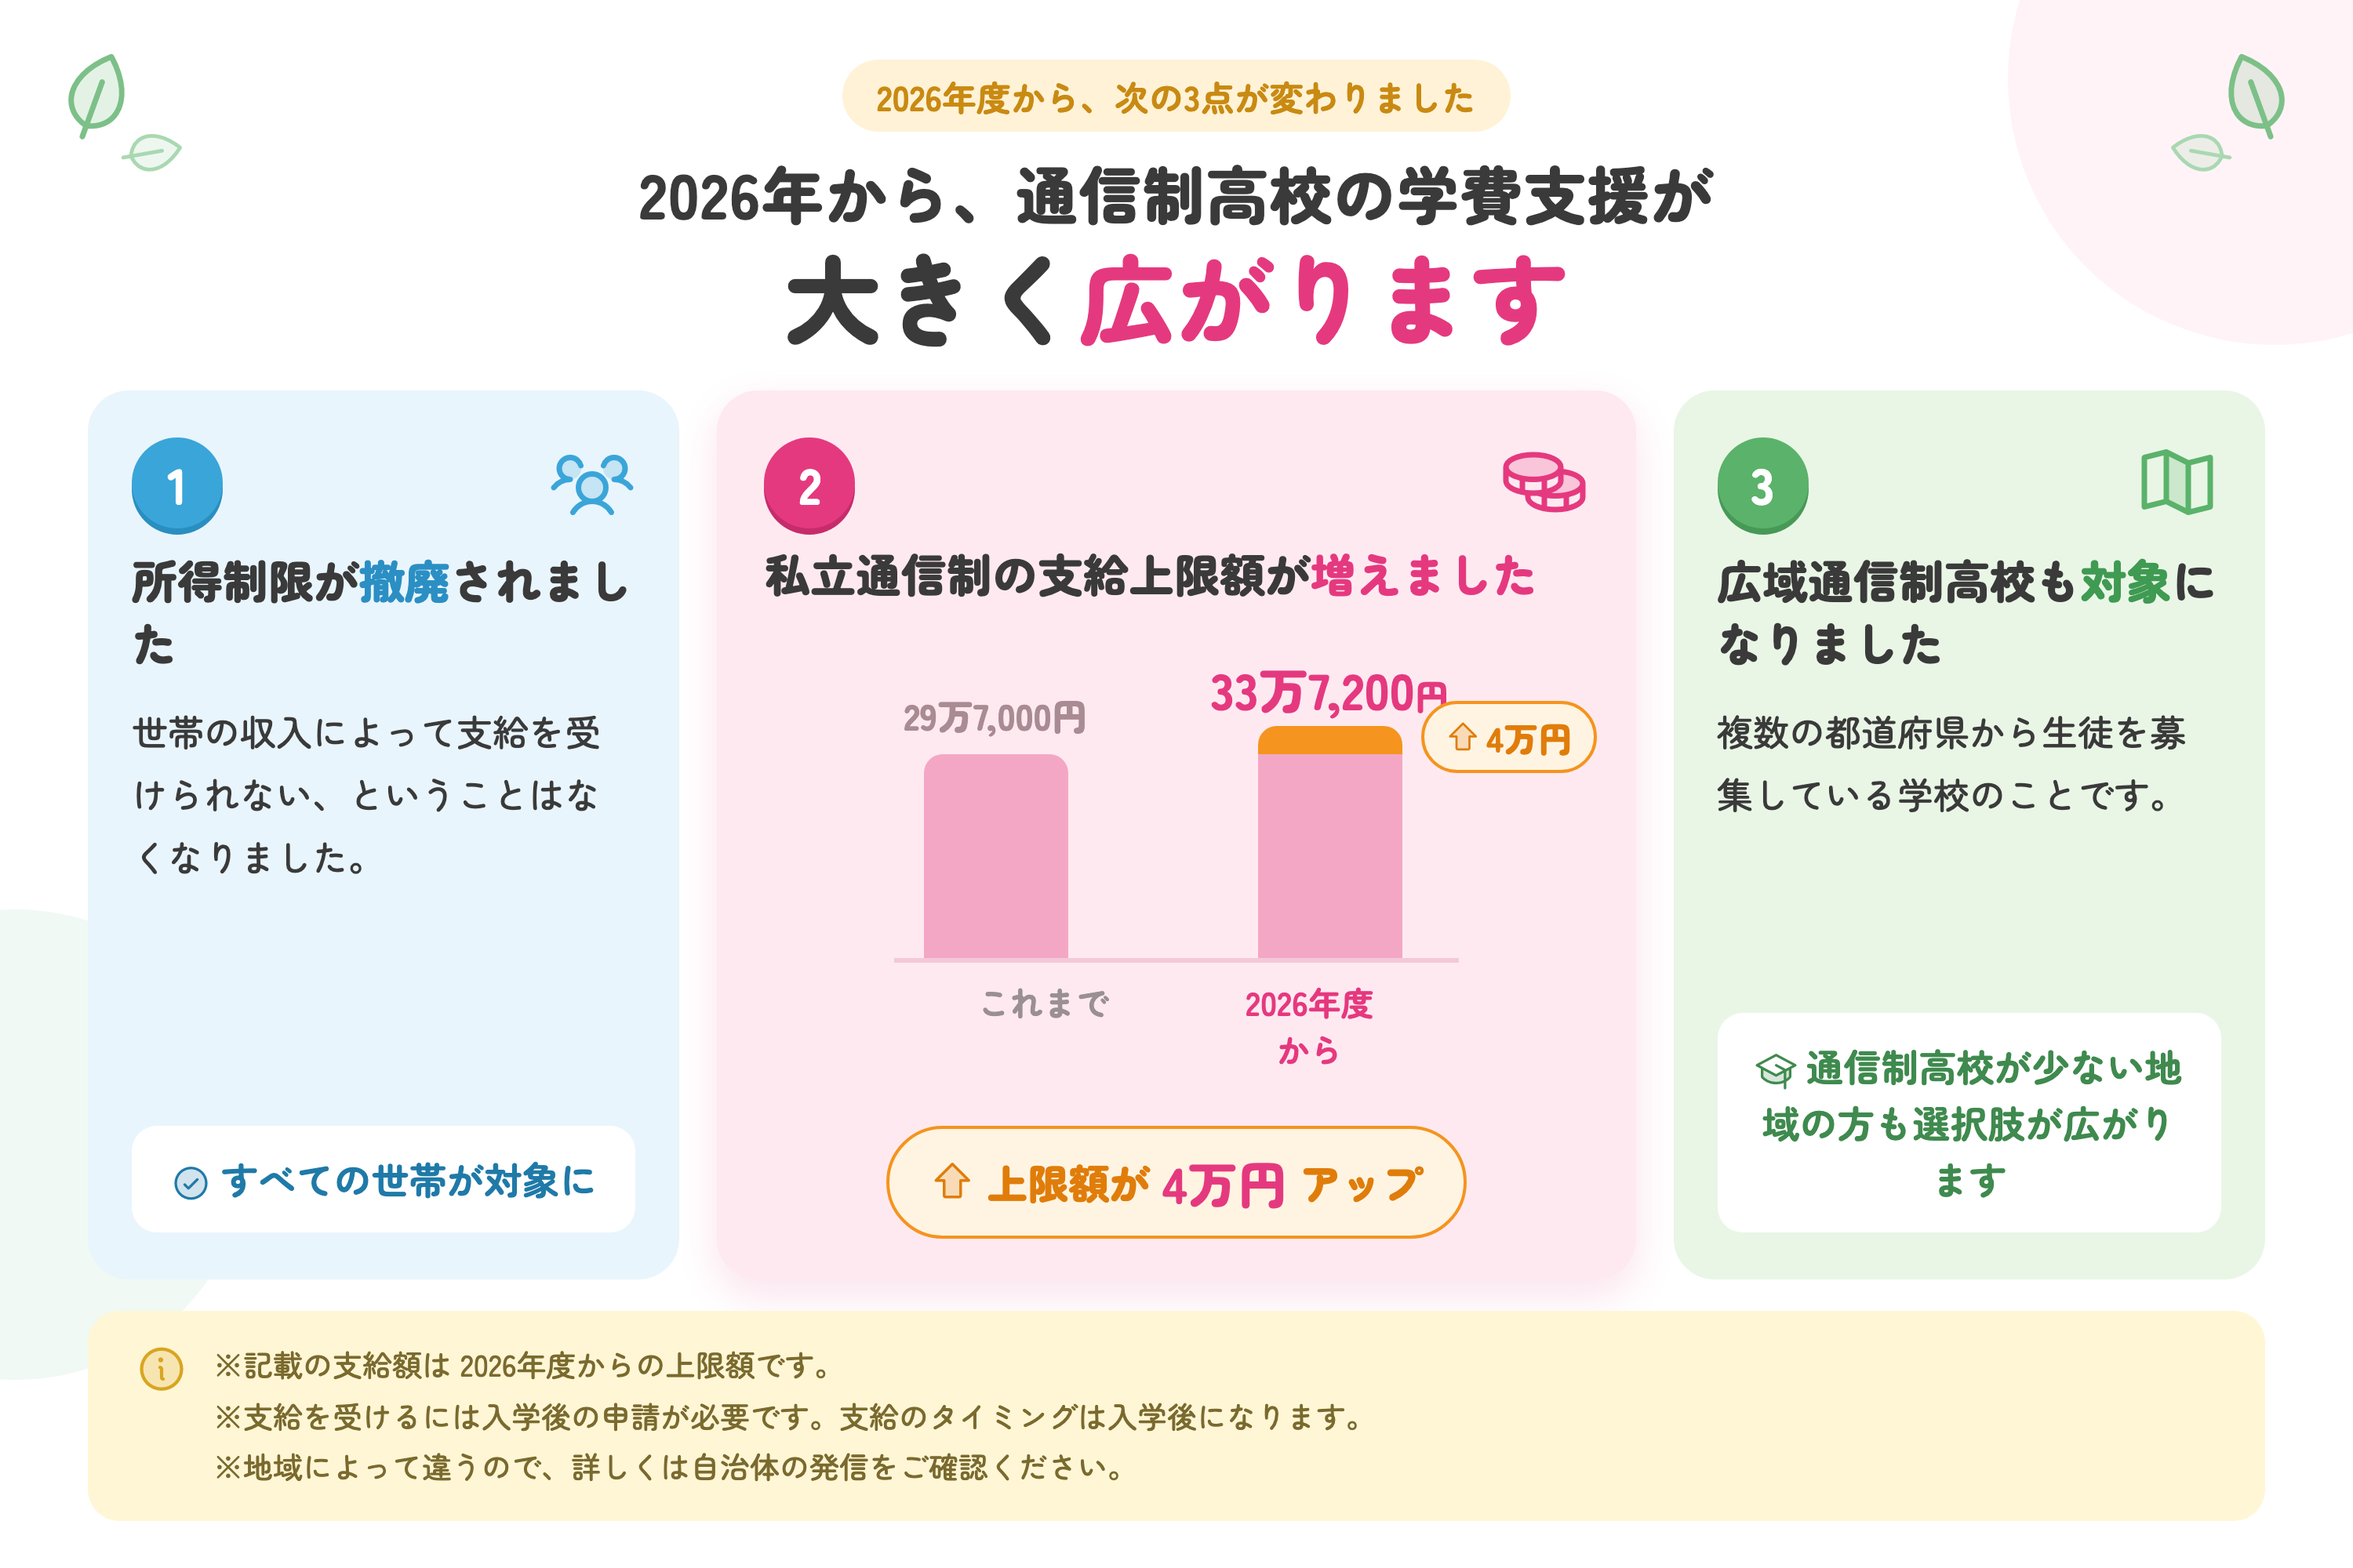
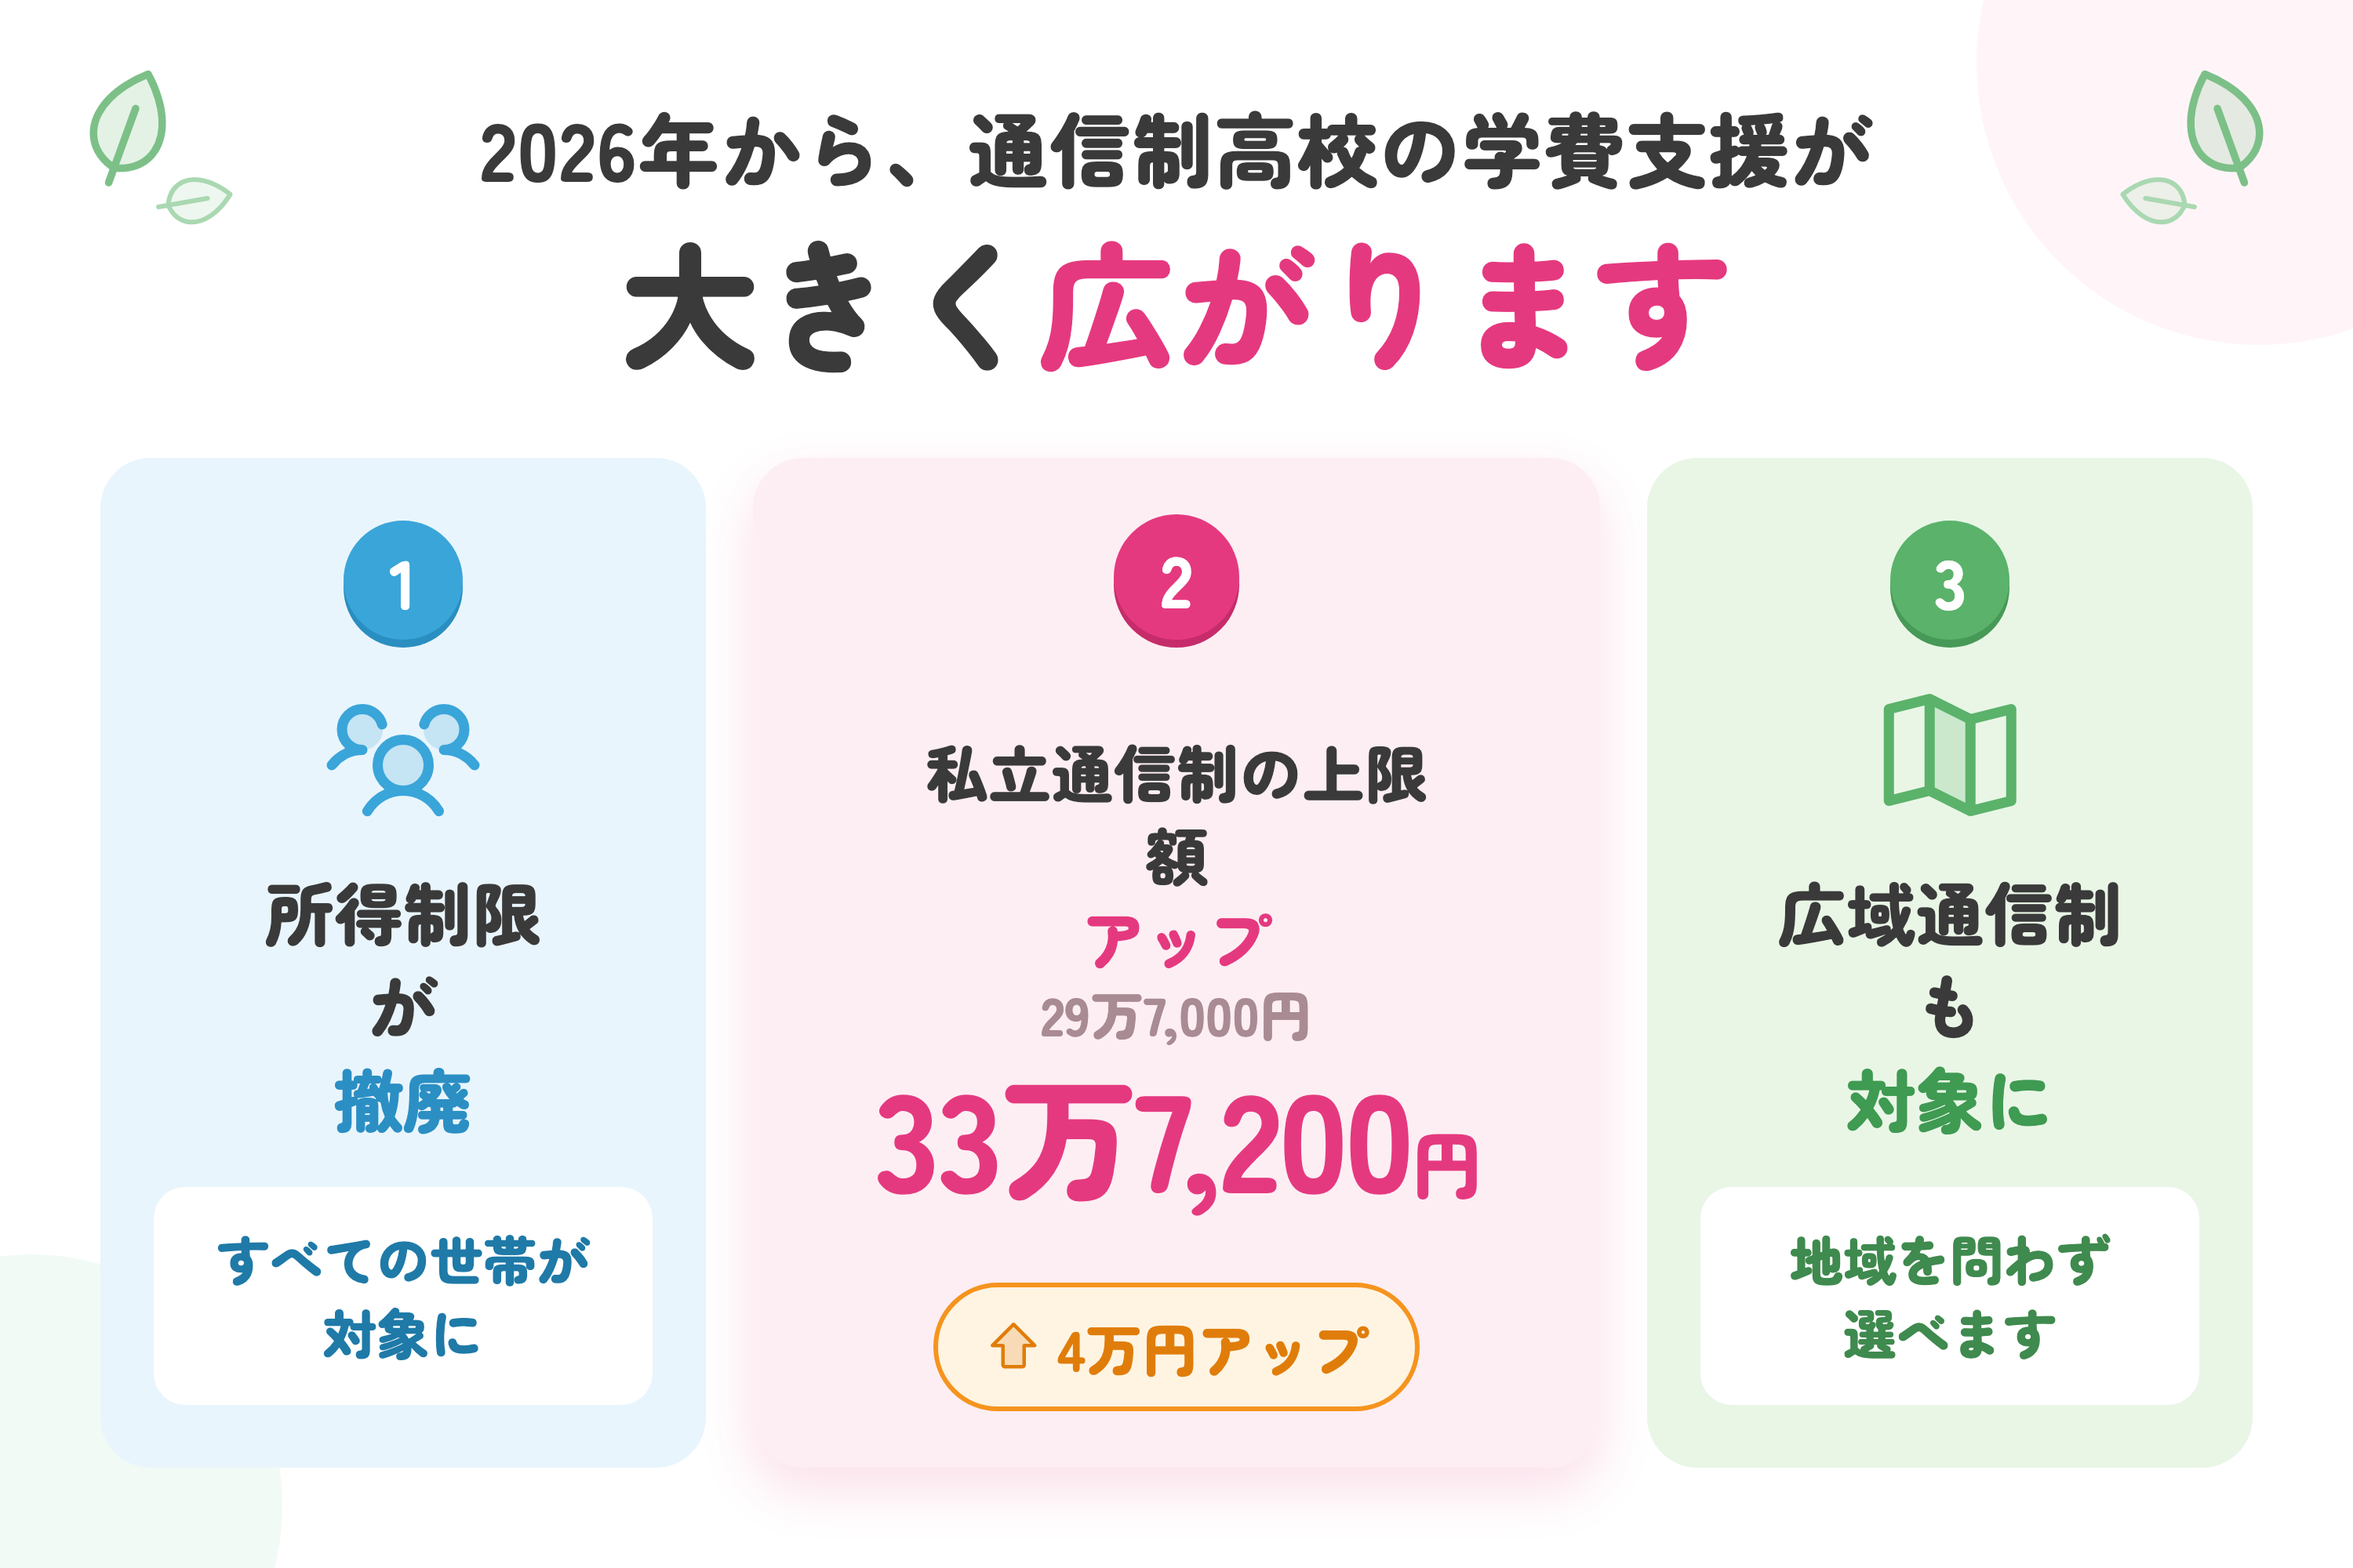
04-seido / 05-shinsei を文字を大きくした新版に差し替え
情報量を削って文字サイズを拡大した版に更新。
05は申請方法・転入・在学中のブロックを削除し4ステップに。

gakuhi.html / gakuhi-noimg.html の参照に ?v=2 を付与しキャッシュを無効化。

diff --git a/gakuhi-noimg.html b/gakuhi-noimg.html
@@ -329,7 +329,7 @@ footer{margin-top:60px; padding-top:24px; border-top:1px solid var(--line); font
 <p class="note">※地域によって違うので詳しくは自治体の発信をご確認ください。また、就学支援金の支給のタイミングは入学後になります。</p>
 
 <figure>
-  <img src="images/04-seido.png" alt="2026年から通信制高校の学費支援が広がります">
+  <img src="images/04-seido.png?v=2" alt="2026年から通信制高校の学費支援が広がります">
   <div class="imgph">画像04：制度の変更3点（images/04-seido.png）</div>
 </figure>
 
@@ -344,7 +344,7 @@ footer{margin-top:60px; padding-top:24px; border-top:1px solid var(--line); font
 <p>どこまでが支援の対象になるかは、学校やコースによって変わります。<strong>入学を検討している学校に、事前に確認しておくと安心です。</strong></p>
 
 <figure>
-  <img src="images/05-shinsei.png" alt="就学支援金の申請は入学後です">
+  <img src="images/05-shinsei.png?v=2" alt="就学支援金の申請は入学後です">
   <div class="imgph">画像05：申請の流れ（images/05-shinsei.png）</div>
 </figure>
 

diff --git a/gakuhi.html b/gakuhi.html
@@ -329,7 +329,7 @@ footer{margin-top:60px; padding-top:24px; border-top:1px solid var(--line); font
 <p class="note">※地域によって違うので詳しくは自治体の発信をご確認ください。また、就学支援金の支給のタイミングは入学後になります。</p>
 
 <figure>
-  <img src="images/04-seido.png" alt="2026年から通信制高校の学費支援が広がります">
+  <img src="images/04-seido.png?v=2" alt="2026年から通信制高校の学費支援が広がります">
   <div class="imgph">画像04：制度の変更3点（images/04-seido.png）</div>
 </figure>
 
@@ -344,7 +344,7 @@ footer{margin-top:60px; padding-top:24px; border-top:1px solid var(--line); font
 <p>どこまでが支援の対象になるかは、学校やコースによって変わります。<strong>入学を検討している学校に、事前に確認しておくと安心です。</strong></p>
 
 <figure>
-  <img src="images/05-shinsei.png" alt="就学支援金の申請は入学後です">
+  <img src="images/05-shinsei.png?v=2" alt="就学支援金の申請は入学後です">
   <div class="imgph">画像05：申請の流れ（images/05-shinsei.png）</div>
 </figure>
 
